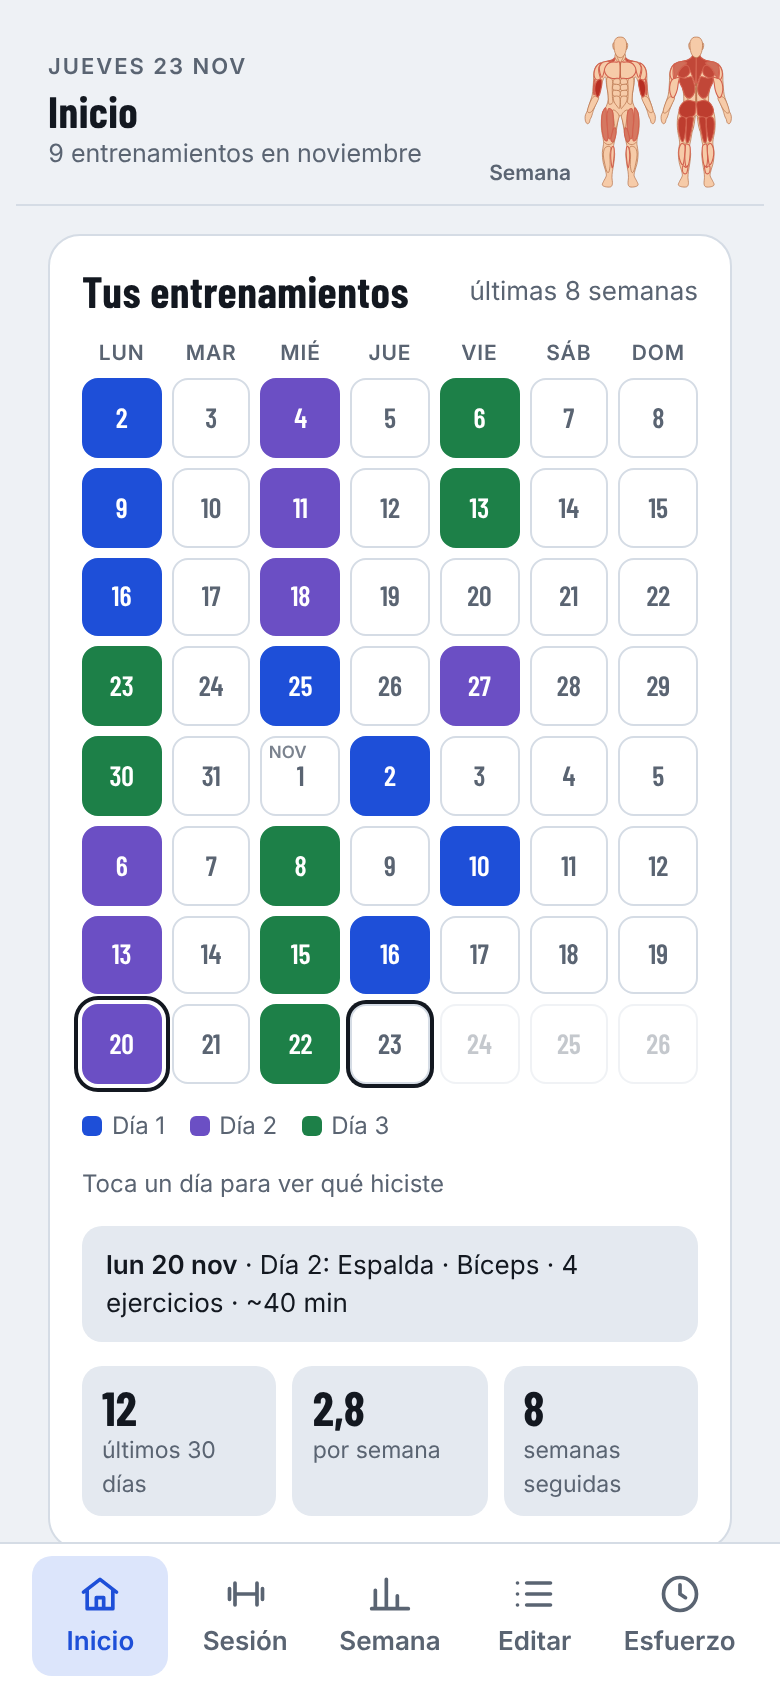
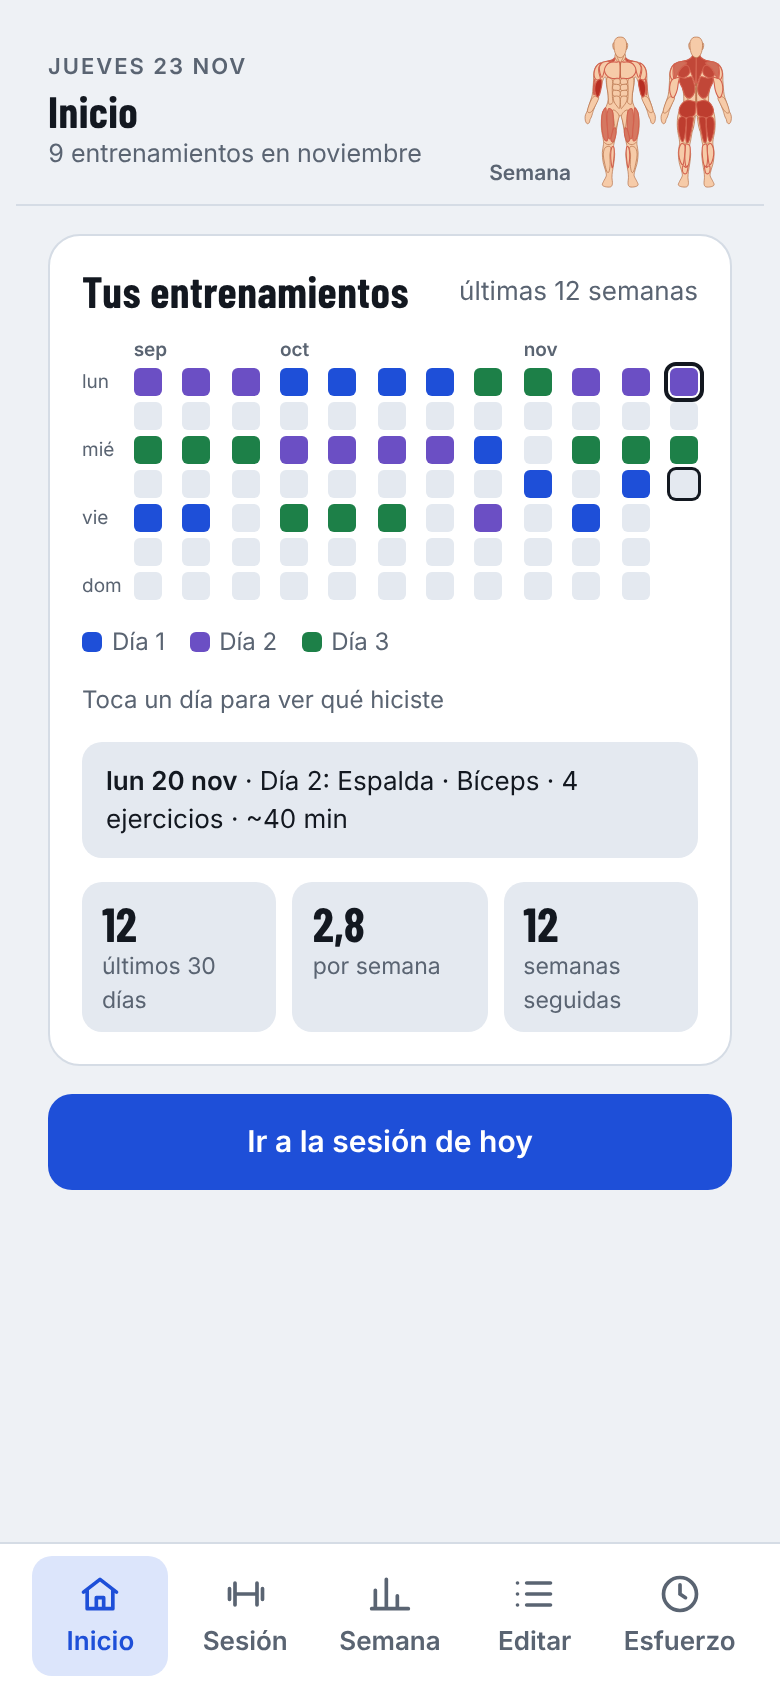
Prototipo: calendario del Inicio con cuadritos chicos
Pedido de Italo en un comentario: más compacto. Grilla de cuadritos por
semana (12 semanas), sin números, con color por rutina.

Claude-Session: https://claude.ai/code/session_01Wiqu2KeW6Cb1pWHsChQmSj

diff --git a/prototipo/index.html b/prototipo/index.html
@@ -369,16 +369,17 @@ details.det { margin-top: -4px; }
 .tabs { position: fixed; left: 0; right: 0; bottom: 0; background: var(--surface); border-top: 1px solid var(--line); display: flex; justify-content: center; padding: 6px max(16px, env(safe-area-inset-right, 0px)) calc(6px + env(safe-area-inset-bottom, 0px)) max(16px, env(safe-area-inset-left, 0px)); z-index: 20; }
 .tabs-in { width: 100%; max-width: 480px; display: grid; grid-template-columns: repeat(5, minmax(0, 1fr)); gap: 4px; }
 /* inicio: calendario de días entrenados */
-.cal { display: grid; grid-template-columns: repeat(7, minmax(0, 1fr)); gap: 5px; }
-.cal-h { font-size: 10.5px; font-weight: 600; color: var(--muted); text-align: center; text-transform: uppercase; letter-spacing: .04em; }
-.cal-d { aspect-ratio: 1; border: 1px solid var(--line); border-radius: 8px; background: var(--surface); display: grid; place-items: center; padding: 0; font-family: var(--display); font-size: 14px; font-weight: 600; color: var(--muted); position: relative; }
-.cal-d.on { background: var(--accent); border-color: var(--accent); color: var(--accent-ink); }
-.cal-d.r1 { background: var(--tag); border-color: var(--tag); }
-.cal-d.r2 { background: var(--ok); border-color: var(--ok); }
-.cal-d.hoy { box-shadow: 0 0 0 2px var(--ink); }
-.cal-d.fut { opacity: .35; }
-.cal-d.sel { outline: 2px solid var(--ink); outline-offset: 2px; }
-.cal-d .m1 { position: absolute; top: 1px; left: 3px; font-family: var(--body); font-size: 8.5px; font-weight: 700; text-transform: uppercase; opacity: .8; }
+.cal-wrap { display: grid; grid-template-columns: auto minmax(0, 1fr); gap: 6px; }
+.cal-dl { display: grid; grid-template-rows: 12px repeat(7, 14px); gap: 3px; font-size: 9.5px; color: var(--muted); line-height: 14px; }
+.cal { display: grid; grid-template-rows: 12px repeat(7, 14px); grid-auto-flow: column; grid-auto-columns: 14px; gap: 3px; justify-content: space-between; }
+.cal-mes { font-size: 9.5px; font-weight: 600; color: var(--muted); line-height: 12px; white-space: nowrap; overflow: visible; }
+.cal-d { width: 14px; height: 14px; border: 0; border-radius: 3px; background: var(--surface-2); padding: 0; }
+.cal-d.on { background: var(--accent); }
+.cal-d.r1 { background: var(--tag); }
+.cal-d.r2 { background: var(--ok); }
+.cal-d.hoy { box-shadow: 0 0 0 1.5px var(--ink); }
+.cal-d.fut { visibility: hidden; }
+.cal-d.sel { outline: 2px solid var(--ink); outline-offset: 1px; }
 .cal-stats { display: grid; grid-template-columns: repeat(3, minmax(0, 1fr)); gap: 8px; }
 .cal-stats div { background: var(--surface-2); border-radius: 10px; padding: 8px 10px; display: flex; flex-direction: column; }
 .cal-stats b { font-family: var(--display); font-size: 24px; line-height: 1.1; }
@@ -906,17 +907,22 @@ const DIAS_C = ['dom','lun','mar','mié','jue','vie','sáb'], MESES_C = ['ene','
 const fechaTxt = f => `${DIAS_C[f.getDay()]} ${f.getDate()} ${MESES_C[f.getMonth()]}`;
 const diaKey = f => `${f.getFullYear()}-${f.getMonth() + 1}-${f.getDate()}`;
 // fechas entrenadas; la rutina sale de la rotación (la última fue Día 3 el mié 22 nov)
-const HIST = [[9,2],[9,4],[9,6],[9,9],[9,11],[9,13],[9,16],[9,18],[9,23],[9,25],[9,27],[9,30],[10,2],[10,6],[10,8],[10,10],[10,13],[10,15],[10,16],[10,20],[10,22]]
+const HIST = [[8,4],[8,6],[8,8],[8,11],[8,13],[8,15],[8,18],[8,20],[8,25],[8,27],[8,29],[9,2],[9,4],[9,6],[9,9],[9,11],[9,13],[9,16],[9,18],[9,23],[9,25],[9,27],[9,30],[10,2],[10,6],[10,8],[10,10],[10,13],[10,15],[10,16],[10,20],[10,22]]
   .map(([m, d], i, a) => ({ f: new Date(2023, m, d), k: ((2 - (a.length - 1 - i)) % 3 + 3) % 3 }));
 function viewInicioApp() {
-  const SEM = 8, lunes = new Date(HOY); lunes.setDate(HOY.getDate() - (HOY.getDay() + 6) % 7 - 7 * (SEM - 1));
+  const SEM = 12, lunes = new Date(HOY); lunes.setDate(HOY.getDate() - (HOY.getDay() + 6) % 7 - 7 * (SEM - 1));
   const porDia = {}; HIST.forEach(h => porDia[diaKey(h.f)] = h);
   let celdas = '';
-  for (let i = 0; i < SEM * 7; i++) {
-    const f = new Date(lunes); f.setDate(lunes.getDate() + i);
-    const h = porDia[diaKey(f)], key = diaKey(f), fut = f > HOY, hoy = key === diaKey(HOY);
-    const cls = ['cal-d', h ? `on r${h.k}` : '', hoy ? 'hoy' : '', fut ? 'fut' : '', S.calDay === key ? 'sel' : ''].join(' ');
-    celdas += `<button class="${cls}" ${fut ? 'disabled' : `data-a="calDay" data-v="${key}"`} aria-label="${fechaTxt(f)}${h ? ` · ${RUT[h.k] ? RUT[h.k].name : 'entrenado'}` : ''}">${f.getDate() === 1 ? `<span class="m1">${MESES_C[f.getMonth()]}</span>` : ''}${f.getDate()}</button>`;
+  for (let w = 0; w < SEM; w++) {
+    const f0 = new Date(lunes); f0.setDate(lunes.getDate() + w * 7);
+    const f6 = new Date(f0); f6.setDate(f0.getDate() + 6);
+    celdas += `<span class="cal-mes">${w === 0 || f0.getMonth() !== f6.getMonth() || f0.getDate() === 1 ? MESES_C[f6.getMonth()] : ''}</span>`;
+    for (let i = 0; i < 7; i++) {
+      const f = new Date(f0); f.setDate(f0.getDate() + i);
+      const h = porDia[diaKey(f)], key = diaKey(f), fut = f > HOY, hoy = key === diaKey(HOY);
+      const cls = ['cal-d', h ? `on r${h.k}` : '', hoy ? 'hoy' : '', fut ? 'fut' : '', S.calDay === key ? 'sel' : ''].join(' ');
+      celdas += `<button class="${cls}" ${fut ? 'disabled' : `data-a="calDay" data-v="${key}"`} aria-label="${fechaTxt(f)}${h ? ` · ${RUT[h.k] ? RUT[h.k].name : 'entrenado'}` : ''}"></button>`;
+    }
   }
   const ult30 = HIST.filter(h => (HOY - h.f) / 864e5 < 30).length;
   const porSem = (HIST.filter(h => (HOY - h.f) / 864e5 < 28).length / 4).toFixed(1).replace('.', ',');
@@ -928,7 +934,7 @@ function viewInicioApp() {
   return `
     <section class="card">
       <div class="slot-head"><h2>Tus entrenamientos</h2><span class="small muted">últimas ${SEM} semanas</span></div>
-      <div class="cal">${['lun','mar','mié','jue','vie','sáb','dom'].map(d => `<span class="cal-h">${d}</span>`).join('')}${celdas}</div>
+      <div class="cal-wrap"><div class="cal-dl"><span></span>${['lun','','mié','','vie','','dom'].map(d => `<span>${d}</span>`).join('')}</div><div class="cal">${celdas}</div></div>
       <div class="cal-leg">${RUT.slice(0, 3).map((x, k) => `<span><i class="r${k}"></i>Día ${k + 1}</span>`).join('')}<span>Toca un día para ver qué hiciste</span></div>
       ${det}
       <div class="cal-stats"><div><b>${ult30}</b><span>últimos 30 días</span></div><div><b>${porSem}</b><span>por semana</span></div><div><b>${racha}</b><span>semanas seguidas</span></div></div>

diff --git a/BITACORA.md b/BITACORA.md
@@ -29,6 +29,11 @@ Desde ahora esas ramas tienen que salir de `main` y volver a `main` (ver `REGLAS
 
 ---
 
+## 2026-11-25 · Claude (hilo "Agregar inicio de rutinas") · calendario compacto
+
+- Comentario de Italo: el calendario del Inicio, más compacto, con cuadritos chicos. Ahora es una grilla de cuadritos de 14 px (columnas = semanas, filas = lunes a domingo, mes arriba), sin números, últimas 12 semanas. Se mantiene el color por rutina, tocar un cuadrito para ver el día y el resumen. Historial de ejemplo extendido a septiembre.
+- Acuerdo con el hilo "Planificar app personal de gimnasio": este hilo atiende los comentarios del prototipo sobre inicio de rutinas, Inicio/calendario y nombres de pestañas; ese hilo, todo lo de la tarjeta de sesión.
+
 ## 2026-11-25 · Claude (hilo "Agregar inicio de rutinas") · pestaña Inicio con calendario
 
 - Pedido de Italo: página de **Inicio** (primera pestaña, la que abre la app) con un calendario de los días entrenados. Muestra las últimas 8 semanas (lunes a domingo), cada día entrenado pintado según la rutina (Día 1, 2, 3), hoy marcado; al tocar un día dice qué rutina fue. Abajo: entrenamientos de los últimos 30 días, promedio por semana y semanas seguidas. Botón "Ir a la sesión de hoy".
